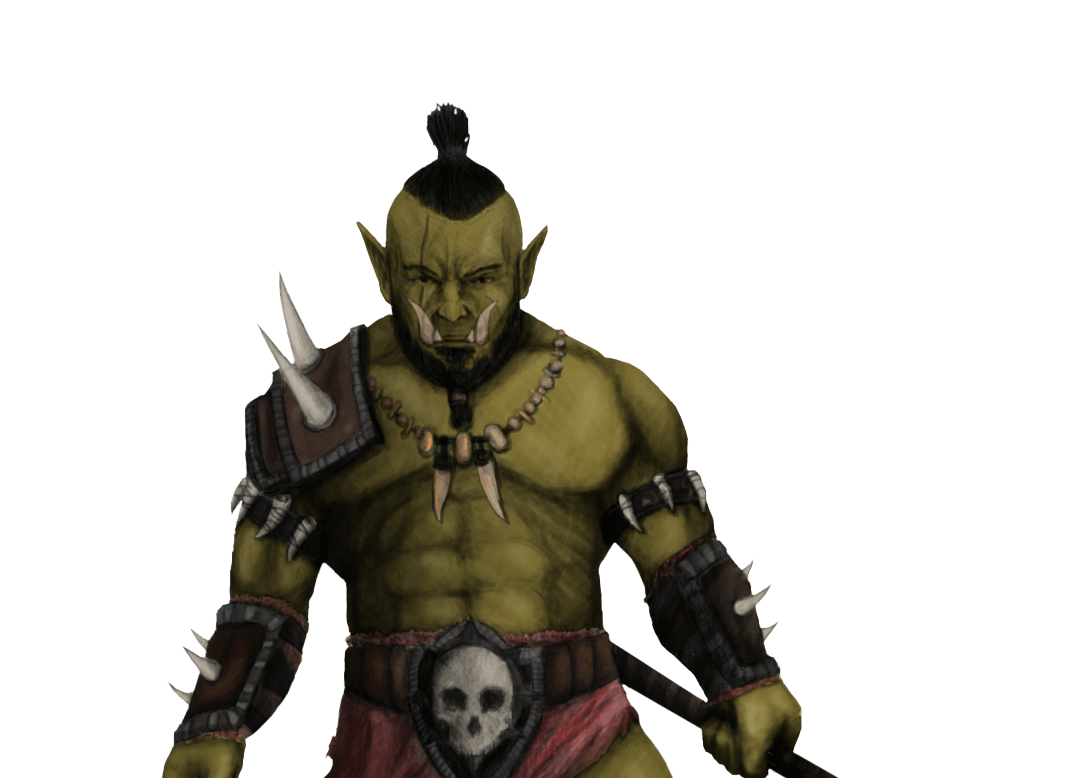
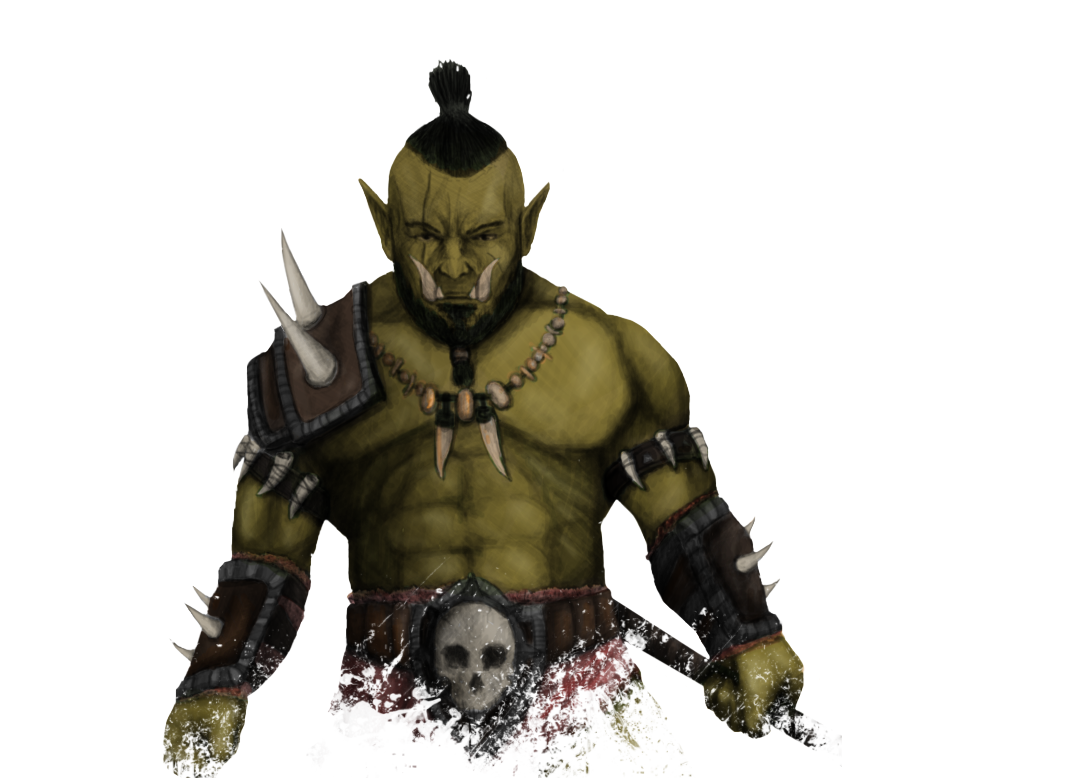
chore(design): add the new deisgn of the popup for player transition

Changed region(s): [[0.1541, 0.0617, 0.8011, 1.0]]

diff --git a/app/game/widgets/popups/transition.scss b/app/game/widgets/popups/transition.scss
@@ -18,7 +18,7 @@ along with Arena of Titans. If not, see <http://www.gnu.org/licenses/>.
 */
 
 aot-popup .popup-transition {
-    background-color: white;
+    background: url(/assets/game/backgrounds/popup-transition.png) no-repeat;
     background-size: 100% 100%;
     height: 20vh;
     max-width: 100%;
@@ -30,7 +30,7 @@ aot-popup .popup-transition {
         animation-duration: 0.8s;
         animation-iteration-count: 1;
         animation-name: slidein;
-        bottom: 0;
+        bottom: 2vh;
         height: 65vh;
         position: absolute;
         right: 0;
